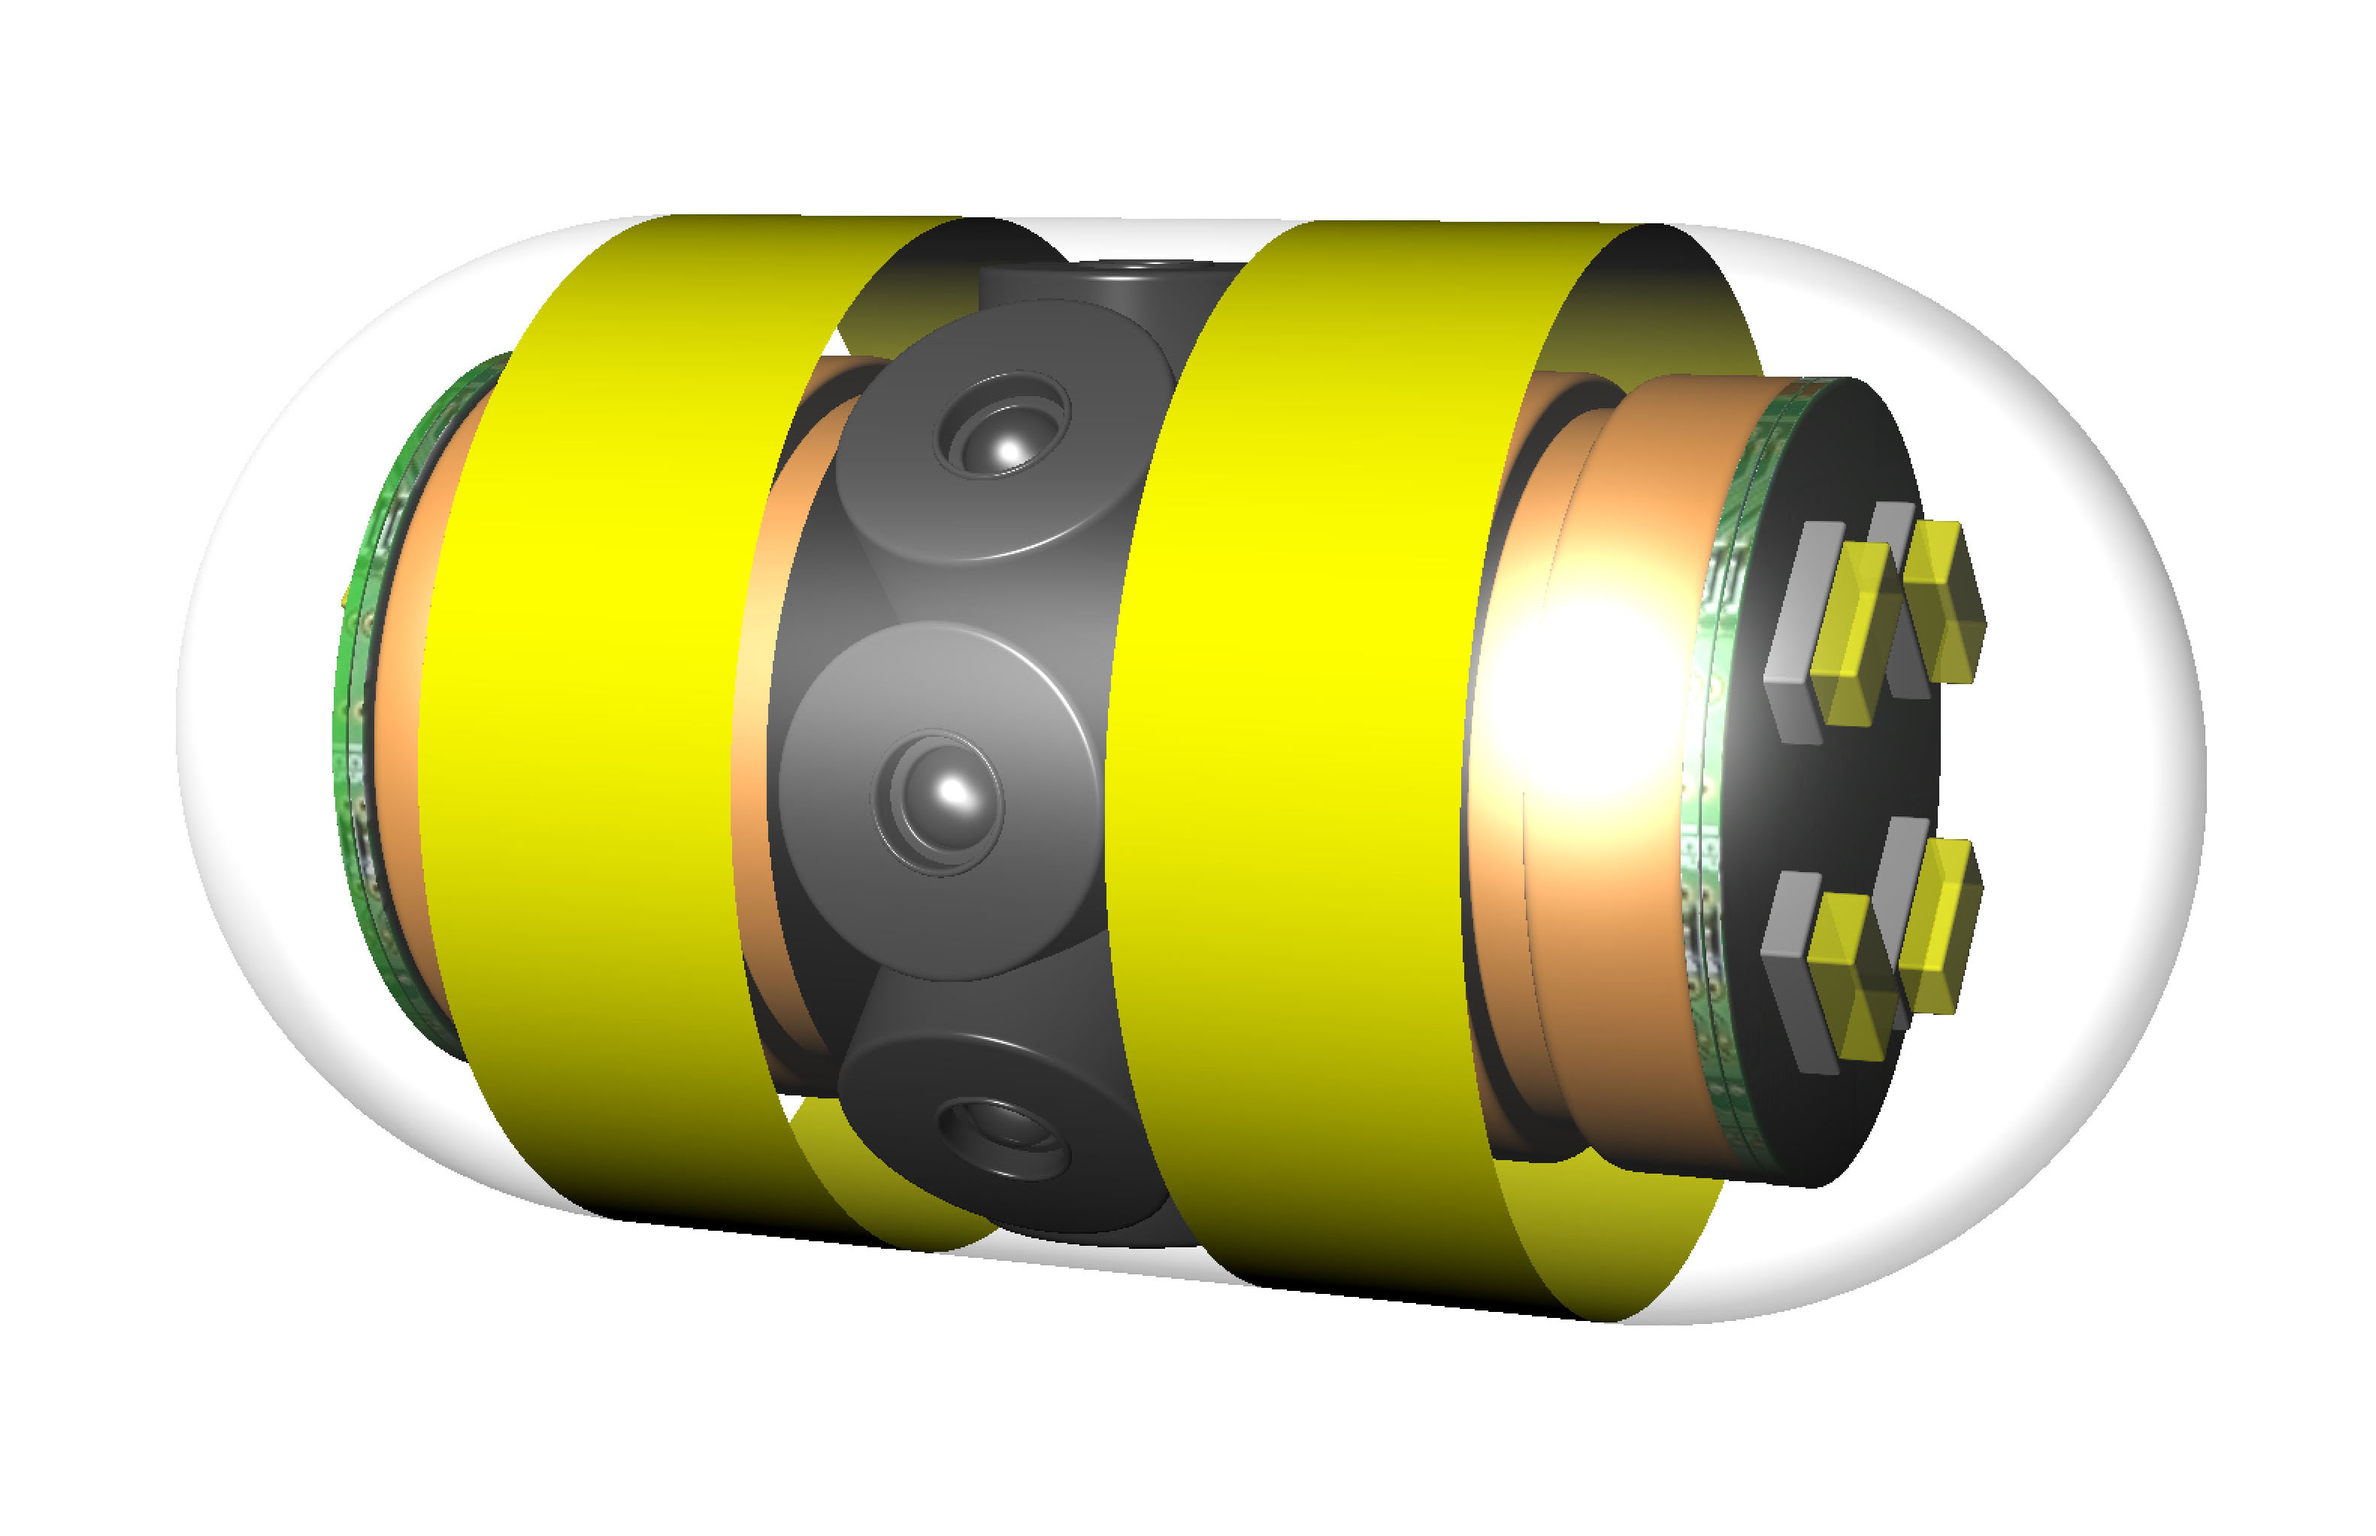
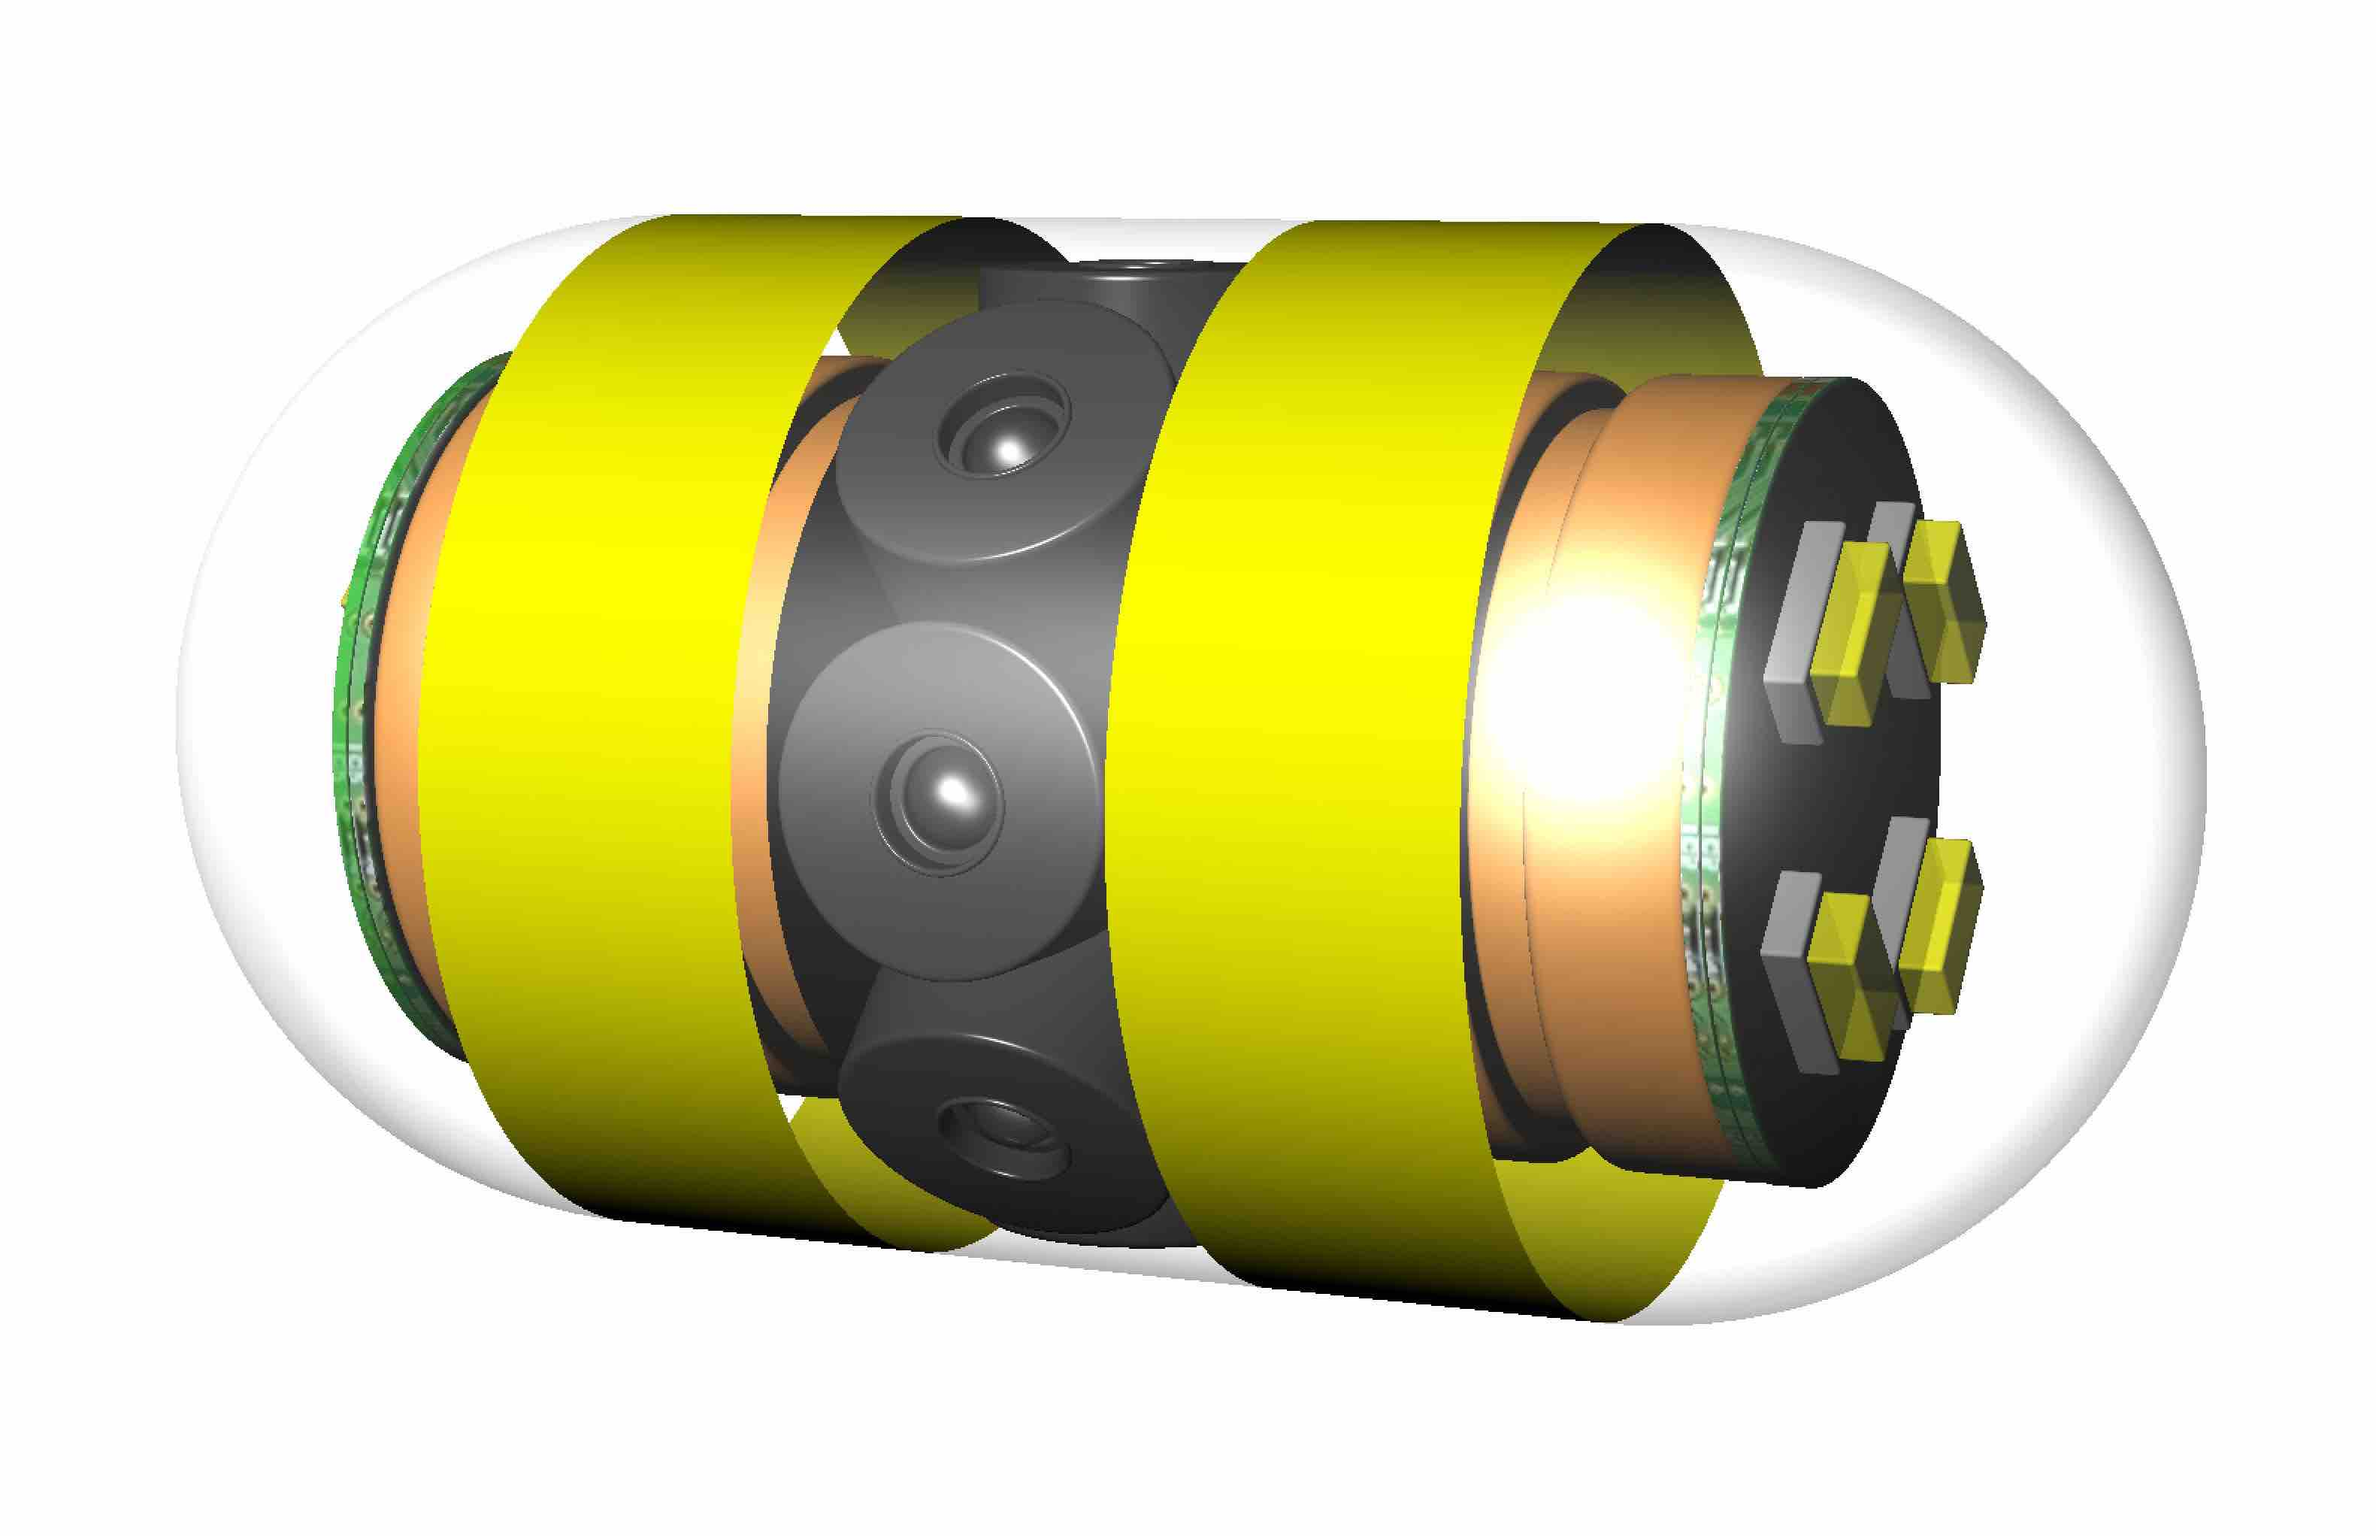
image size update

Changed region(s): [[0.186, 0.2467, 0.217, 0.2775]]

diff --git a/search/index.js b/search/index.js
@@ -4,7 +4,7 @@ var data = [
     {
       url: "https://shiiiiiiiii1.github.io/PortfolioSiteHugo/portfolio/PlanningComponentToy/",
       title: "ちょっとコースター",
-      content: "[コンセプト 作るだけで終わらない 背景 チームメンバーが子供の頃に体験した経験をもとに、こういう背景ってあるよねっていうことを話し合いながら考えました。 &amp;gt; 遊園地が近くにないところに住んでいるため、遊園地に行く時がとても貴重で楽しみにしている。そんな中いざ行ってみて楽しもうとするとジェットコースターに身長制限がかかっていてお姉ちゃんは乗れるけど自分は乗れない。 こういった背景のもと身長制限のある子どもでもジェットコースターを楽しみたいということを実現しました！ ターゲット 6〜7歳の男の子 身長が120cmない 兄姉がいる 遊園地が近くにないところに住んでいる プラレールなどの自分で組み合わせて作ることが好き おもちゃ説明 現実世界ではジェットコースターに乗れない子供にもジェットコースターのワクワクを味わってもらいたい。 また、みんなが乗ってるあの感覚を味わいたい。という思いを実現するためのものです。 使い方としては、 自分の好きなジェットコースターのコースを組み合わせることができる。 自分の好きなジェットコースターの乗り物を選ぶ。 360°カメラをジェットコースターの乗り物にセットする。 簡易VRにスマートフォンを装着する。 ジェットコースターをスタートし、VRでジェットコースターを体感する。 のフローで使用できます。 キーファクター ジェットコースターが体感できる オリジナルのコースが作れる 自由な場所で遊べる STP 価格設定 ¥8,000 価格帯の理由 プラレールスターターキット：3000円 簡易スマートフォン埋め込み型VR：600円 360°カメラ：4400円（将来の理想価格） セット内容 レール×50 ジェットコースター本体 簡易スマートフォン埋め込み型VR 360°カメラ プロモーション 遊園地のお土産売り場での販売 YouTubeを活用したオリジナルコースの作成 今後の課題 360°カメラの価格の設定 スピード感の実現方法 今後の発展 Disney、富士急とのコラボ商品 様々なジオラマセットを発売]",
+      content: "[コンセプト 作るだけで終わらない 背景 チームメンバーが子供の頃に体験した経験をもとに、こういう背景ってあるよねっていうことを話し合いながら考えました。 遊園地が近くにないところに住んでいるため、遊園地に行く時がとても貴重で楽しみにしている。そんな中いざ行ってみて楽しもうとするとジェットコースターに身長制限がかかっていてお姉ちゃんは乗れるけど自分は乗れない。 こういった背景のもと身長制限のある子どもでもジェットコースターを楽しみたいということを実現しました！ ターゲット 6〜7歳の男の子 身長が120cmない 兄姉がいる 遊園地が近くにないところに住んでいる プラレールなどの自分で組み合わせて作ることが好き おもちゃ説明 現実世界ではジェットコースターに乗れない子供にもジェットコースターのワクワクを味わってもらいたい。 また、みんなが乗ってるあの感覚を味わいたい。という思いを実現するためのものです。 使い方としては、 自分の好きなジェットコースターのコースを組み合わせることができる。 自分の好きなジェットコースターの乗り物を選ぶ。 360°カメラをジェットコースターの乗り物にセットする。 簡易VRにスマートフォンを装着する。 ジェットコースターをスタートし、VRでジェットコースターを体感する。 のフローで使用できます。 キーファクター ジェットコースターが体感できる オリジナルのコースが作れる 自由な場所で遊べる STP 価格設定 ¥8,000 価格帯の理由 プラレールスターターキット：3000円 簡易スマートフォン埋め込み型VR：600円 360°カメラ：4400円（将来の理想価格） セット内容 レール×50 ジェットコースター本体 簡易スマートフォン埋め込み型VR 360°カメラ プロモーション 遊園地のお土産売り場での販売 YouTubeを活用したオリジナルコースの作成 今後の課題 360°カメラの価格の設定 スピード感の実現方法 今後の発展 Disney、富士急とのコラボ商品 様々なジオラマセットを発売]",
       tags: [
         
           

diff --git a/portfolio/PlanningComponentToy/index.html b/portfolio/PlanningComponentToy/index.html
@@ -111,10 +111,13 @@
 
 <h1 id="背景">背景</h1>
 
-<p>チームメンバーが子供の頃に体験した経験をもとに、こういう背景ってあるよねっていうことを話し合いながら考えました。
-<img src="/PortfolioSiteHugo/img/portfolio/PlanningContentToy_Background.jpg">
-&gt; 遊園地が近くにないところに住んでいるため、遊園地に行く時がとても貴重で楽しみにしている。そんな中いざ行ってみて楽しもうとするとジェットコースターに身長制限がかかっていてお姉ちゃんは乗れるけど自分は乗れない。
+<p>チームメンバーが子供の頃に体験した経験をもとに、こういう背景ってあるよねっていうことを話し合いながら考えました。<br />
+<img src="/PortfolioSiteHugo/img/portfolio/PlanningComponentToy_Background.jpg" width="100%"></p>
+
+<blockquote>
+<p>遊園地が近くにないところに住んでいるため、遊園地に行く時がとても貴重で楽しみにしている。そんな中いざ行ってみて楽しもうとするとジェットコースターに身長制限がかかっていてお姉ちゃんは乗れるけど自分は乗れない。
 こういった背景のもと身長制限のある子どもでもジェットコースターを楽しみたいということを実現しました！</p>
+</blockquote>
 
 <h1 id="ターゲット">ターゲット</h1>
 
@@ -152,7 +155,7 @@
 
 <h1 id="stp">STP</h1>
 
-<p><img src="/PortfolioSiteHugo/img/portfolio/PlanningComponentToySTP.jpeg" width="100%"></p>
+<p><img src="/PortfolioSiteHugo/img/portfolio/PlanningComponentToy_STP.jpeg" width="100%"></p>
 
 <h1 id="価格設定">価格設定</h1>
 

diff --git a/index.html b/index.html
@@ -168,7 +168,7 @@
             
               <a href="https://shiiiiiiiii1.github.io/PortfolioSiteHugo/portfolio/ProductActee/" title="" class="box-masonry-image with-hover-overlay with-hover-icon">
             
-                <img src="/PortfolioSiteHugo/img/portfolio/actee.png" alt="" class="img-responsive">
+                <img src="/PortfolioSiteHugo/img/portfolio/actee.jpg" alt="" class="img-responsive">
             </a>
           
           
@@ -200,7 +200,7 @@
             
               <a href="https://shiiiiiiiii1.github.io/PortfolioSiteHugo/portfolio/Web2/" title="" class="box-masonry-image with-hover-overlay with-hover-icon">
             
-                <img src="/PortfolioSiteHugo/img/portfolio/web_second.png" alt="" class="img-responsive">
+                <img src="/PortfolioSiteHugo/img/portfolio/web_second.jpg" alt="" class="img-responsive">
             </a>
           
           
